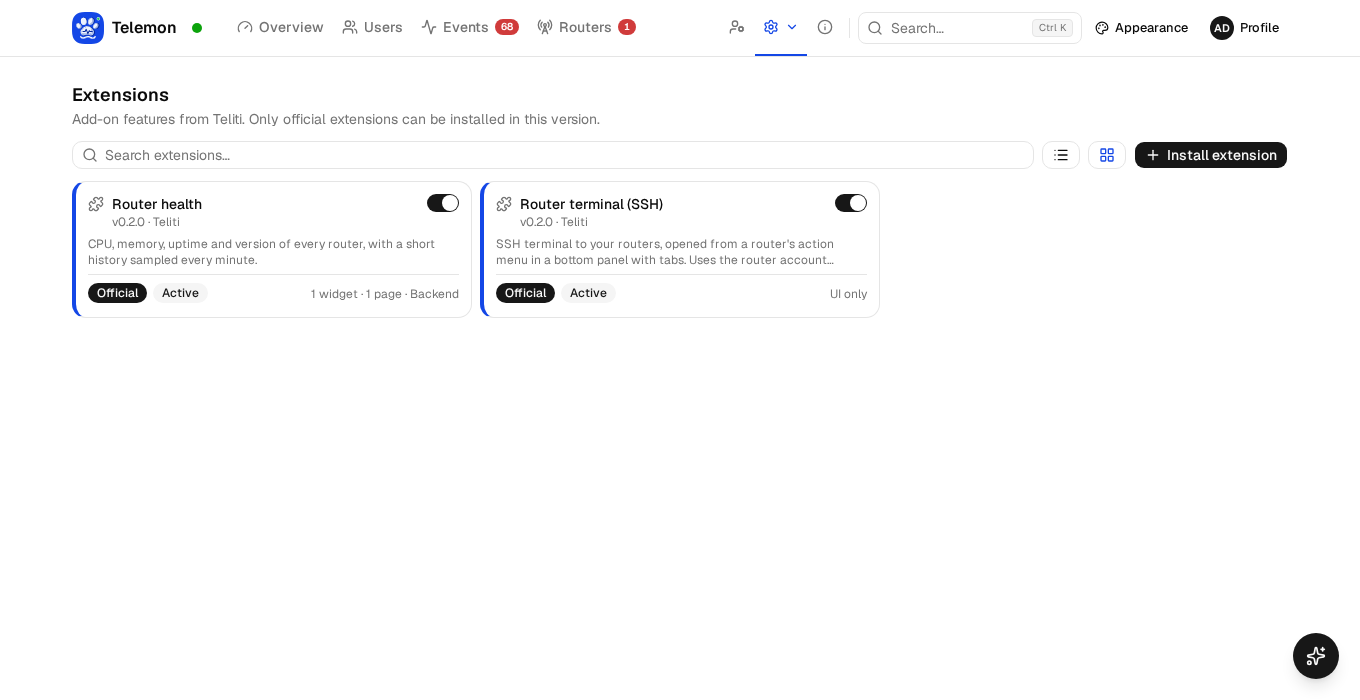
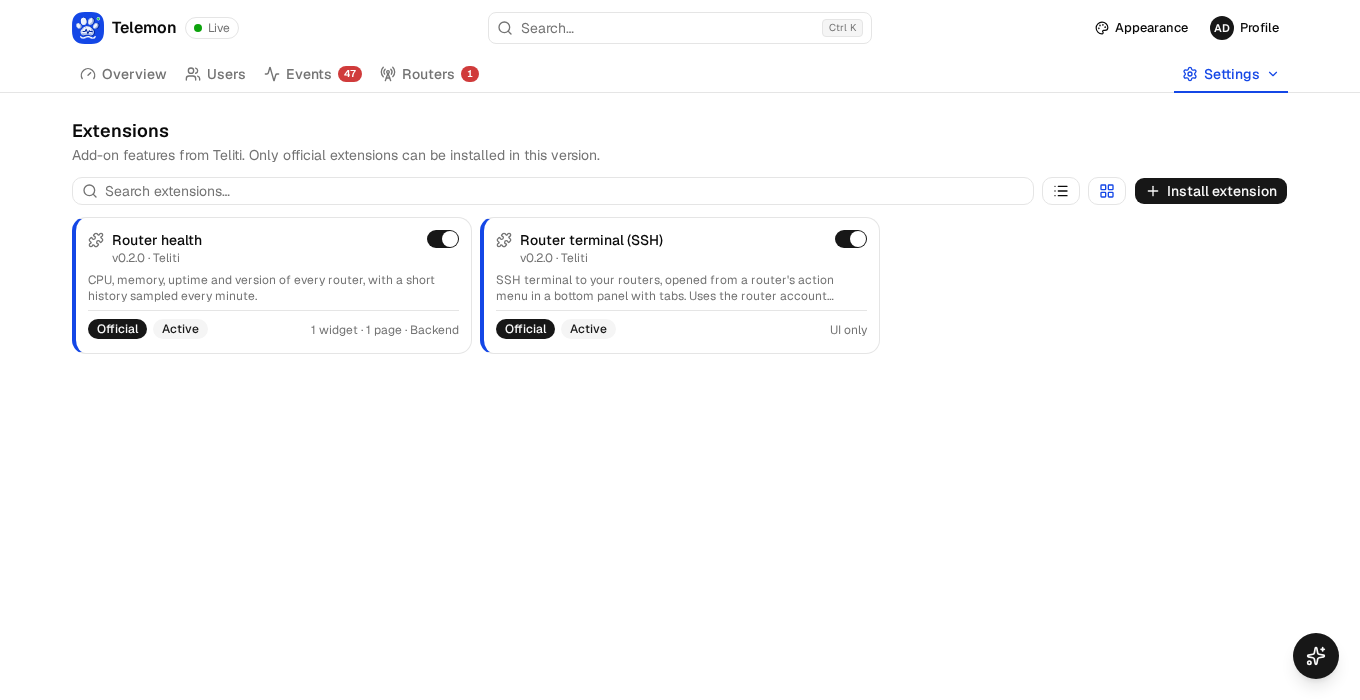
fix(desktop): same compact title bar on Windows, Linux and macOS; refresh README screenshots

diff --git a/src/components/window-controls.tsx b/src/components/window-controls.tsx
@@ -6,9 +6,9 @@ import { useT } from "@/lib/i18n"
 import { cn } from "@/lib/utils"
 import { winClose, winIsMaximized, winMinimize, winStartResize, winToggleMaximize, type ResizeDir } from "@/lib/window"
 
-function Btn({ label, onClick, className, children, compact }: { label: string; onClick: () => void; className?: string; children: React.ReactNode; compact?: boolean }) {
+function Btn({ label, onClick, className, children, compact, flush }: { label: string; onClick: () => void; className?: string; children: React.ReactNode; compact?: boolean; flush?: boolean }) {
   return (
-    <Button type="button" variant="ghost" size="icon" aria-label={label} title={label} onClick={onClick} className={cn(compact && "size-6 md:size-6 [&_svg]:size-3.5", className)}>
+    <Button type="button" variant="ghost" size="icon" aria-label={label} title={label} onClick={onClick} className={cn(compact && !flush && "size-6 md:size-6 [&_svg]:size-3.5", flush && "h-full w-11 rounded-none md:size-auto md:h-full md:w-11 [&_svg]:size-3.5", className)}>
       {children}
     </Button>
   )
@@ -38,8 +38,10 @@ export function WindowControls({ side = "right", compact }: { side?: "left" | "r
     }
   }, [])
 
+  // Gaya Windows ringkas: tombol selebar 44 px setinggi bilah judul, rapat ke tepi kanan.
+  const flush = compact && side === "right"
   const min = (
-    <Btn key="min" compact={compact} label={t("Perkecil jendela")} onClick={winMinimize}>
+    <Btn key="min" compact={compact} flush={flush} label={t("Perkecil jendela")} onClick={winMinimize}>
       <MinusIcon />
     </Btn>
   )
@@ -47,6 +49,7 @@ export function WindowControls({ side = "right", compact }: { side?: "left" | "r
     <Btn
       key="max"
       compact={compact}
+      flush={flush}
       label={maximized ? t("Pulihkan jendela") : t("Perbesar jendela")}
       onClick={() => {
         winToggleMaximize()
@@ -58,13 +61,19 @@ export function WindowControls({ side = "right", compact }: { side?: "left" | "r
     </Btn>
   )
   const close = (
-    <Btn key="close" compact={compact} label={t("Tutup jendela")} onClick={winClose} className="hover:bg-destructive/10 hover:text-destructive">
+    <Btn key="close" compact={compact} flush={flush} label={t("Tutup jendela")} onClick={winClose} className={flush ? "hover:bg-destructive hover:text-white" : "hover:bg-destructive/10 hover:text-destructive"}>
       <XIcon />
     </Btn>
   )
 
   return (
-    <div className={cn("flex shrink-0 items-center gap-0.5", compact ? "py-1" : "py-2", side === "left" ? (compact ? "pr-2 pl-2" : "border-r pr-2 pl-2") : "border-l pr-2 pl-2")} data-window-controls>
+    <div
+      className={cn(
+        "flex shrink-0 items-center",
+        flush ? "self-stretch" : cn("gap-0.5", compact ? "py-1" : "py-2", side === "left" ? (compact ? "pr-2 pl-2" : "border-r pr-2 pl-2") : "border-l pr-2 pl-2")
+      )}
+      data-window-controls
+    >
       {side === "left" ? [close, min, max] : [min, max, close]}
     </div>
   )

diff --git a/src/components/site-header.tsx b/src/components/site-header.tsx
@@ -41,8 +41,8 @@ export function SiteHeader({ title }: { title: string }) {
   // Header menjadi bilah judul (Windows tanpa bilah bawaan, atau macOS Overlay): bisa diseret dan harus tetap terlihat.
   const titlebar = frameless || mac
   React.useEffect(initFrameless, [])
-  // Linux tanpa bilah bawaan: bilah judul dibuat ringkas (setinggi bilah judul bawaan) dengan ikon kecil.
-  const compact = frameless && WINDOW_CONTROLS_SIDE === "left"
+  // Windows, Linux dan macOS: bilah judul sama ringkasnya di semua platform (setinggi bilah judul bawaan), tanpa logo, ikon kecil.
+  const compact = titlebar
 
   const dragProps = titlebar
     ? {
@@ -70,7 +70,7 @@ export function SiteHeader({ title }: { title: string }) {
         )}
       >
         <div className={cn("flex items-stretch", compact ? "h-9" : "h-12 md:h-14")}>
-          {compact && <WindowControls side="left" compact />}
+          {compact && WINDOW_CONTROLS_SIDE === "left" && <WindowControls side="left" compact />}
           {mac && <div aria-hidden className="shrink-0" style={{ width: MAC_TRAFFIC_LIGHTS }} />}
           <div className={cn(PAGE_CONTAINER, "flex h-full min-w-0 items-center gap-2")}>
             <div className="flex min-w-0 flex-1 items-center gap-2">
@@ -118,7 +118,7 @@ export function SiteHeader({ title }: { title: string }) {
             </div>
           </div>
           {mac && <div aria-hidden className="shrink-0" style={{ width: MAC_TRAFFIC_LIGHTS }} />}
-          {frameless && WINDOW_CONTROLS_SIDE === "right" && <WindowControls />}
+          {frameless && WINDOW_CONTROLS_SIDE === "right" && <WindowControls compact />}
           {frameless && NEEDS_RESIZE_HANDLES && <ResizeHandles />}
         </div>
       </div>

diff --git a/src-tauri/src/lib.rs b/src-tauri/src/lib.rs
@@ -76,7 +76,7 @@ pub fn run() {
       // macOS: bilah judul menjadi lapisan transparan (Overlay) tanpa teks judul; header UI yang menjadi bilah judulnya
       // dan tombol lalu lintas bawaan mengambang di kiri atas (lihat `useMacOverlay` di src/lib/window.ts).
       #[cfg(target_os = "macos")]
-      let builder = builder.title_bar_style(tauri::TitleBarStyle::Overlay).hidden_title(true).traffic_light_position(tauri::LogicalPosition::new(18.0, 21.0));
+      let builder = builder.title_bar_style(tauri::TitleBarStyle::Overlay).hidden_title(true).traffic_light_position(tauri::LogicalPosition::new(18.0, 12.0));
       builder.build()?;
       Ok(())
     })

diff --git a/CLAUDE.md b/CLAUDE.md
@@ -72,6 +72,6 @@ Aplikasi desktop **Tauri v2** (Windows dan Linux, tanpa deploy).
 - **UI Extension** (Pengaturan > Extension): daftar `#/pengaturan/extension` (`pages/settings-extensions.tsx`: grid kartu atau list seperti Users, pilihan tersimpan di `telemon.extensions.view`, cari, toggle aktif dengan popup konfirmasi `ToggleExtensionDialog`), tombol **Pasang extension** membuka `InstallChooserDialog` (toko atau unggah berkas lokal; unggah lewat `InstallDialog` lalu pindah ke detail), toko `#/pengaturan/extension/store` (`pages/extension-store.tsx`: jelajah, cari, filter semua/belum terpasang/terpasang/ada pembaruan; klik kartu = popup detail fitur, izin wajib/sensitif, syarat; **Verifikasi dan pasang** wajib mencentang pernyataan), setelah pasang pindah ke detail dengan `replacePath` (Back menuju daftar, bukan toko), dan detail `#/pengaturan/extension/<id>` (`pages/extension-detail.tsx`, di tengah `max-w-3xl`: informasi, kompatibilitas, izin dengan konfirmasi untuk menyalakan yang sensitif, akses peran `AccessPanel`, backend, hapus). Bagian bersama di `components/extensions/parts.tsx`. `GET /api/extensions/store` kini memuat widget, halaman, izin, aksi, backend, tugas, dan sesi per entri untuk popup detail. Server demo: `TELEMON_DEMO_STORE_DIR` (katalog dan paket dari folder lokal) untuk mencoba toko tanpa jaringan.
 - **Cache UI**: `security_headers` memberi `Cache-Control: no-cache` pada respons HTML (index.html dan rute SPA) supaya browser tidak menahan UI lama setelah pembaruan; aset bernama hash tetap boleh di-cache. Halaman Extension: toolbar selebar halaman (cari melebar, tampilan dan Pasang di ujung kanan), grid 1/2/3 kolom (`min-[420px]:2`, `lg:3`).
 - **Slot UI untuk extension** (ADR 0028): extension muncul di konteksnya, bukan di menu utama. (1) **Aksi router**: `contributes.routerActions` (`id`, `title`, `action`) + `sdk.registerRouterAction({ id, run(router), disabled?(router) })`; tampil di menu aksi tiap router di halaman Router (`pages/routers.tsx`, hanya bila peran punya aksinya; `disabled` memberi alasan sebagai tooltip). (2) **Panel bawah bertab ala VS Code**: `contributes.panels` + `sdk.registerPanel({ id, Component({ params, close }) })` dan `sdk.panel.open(panelId, { key, title, params })`; `components/extensions/bottom-panel.tsx` (di App, tetap di bawah, tinggi bisa ditarik dan diingat di `telemon.panel.height`, besarkan, lipat, tutup, Ctrl+` melipat; tab tetap hidup saat pindah tab; penahan ruang supaya isi halaman tidak tertutup; di HP berada di atas menu bawah) dengan status di `lib/extensions/panel.ts`. Tab milik extension yang dimatikan atau dihapus ditutup saat extension dimuat ulang (`pruneTabs`). Registri: `lib/extensions/registry.ts` (`routerActionList`, `findPanel`). Menu "Extension" di menu atas **dihapus**; halaman extension (`contributes.pages`, `#/ext/...`) tetap ada untuk dasbor dan dibuka dari detail extension. Detail extension memberi peringatan "Belum bisa dipakai" bila sesi `router-ssh` ada tetapi izin `feature.router-ssh` mati.
-- **Jendela desktop** (`src-tauri/src/lib.rs`): ukuran minimal 960×620 dan maksimal 2560×1600 piksel logis (`MIN_WINDOW`, `MAX_WINDOW`; tampilan HP hanya di browser). **macOS**: bilah judul bawaan menjadi Overlay tanpa teks (`TitleBarStyle::Overlay`, `hidden_title`, `traffic_light_position(18, 21)`), jadi tombol lalu lintas bawaan mengambang di kiri atas dan header UI menjadi bilah judul (`useMacOverlay` di `src/lib/window.ts`: deteksi UA Mac + IPC Tauri; `MAC_TRAFFIC_LIGHTS` = 84 px ruang di kiri dan kanan header, bisa diseret, klik ganda memperbesar; tanpa `WindowControls`). Windows tetap tanpa bilah bawaan lewat `set_decorations(false)` dan tombol buatan sendiri; Linux memakai bilah bawaan. **Bagian Rust macOS tidak bisa dibangun di olympus (tanpa WebKitGTK); baru teruji saat CI rilis dan di Mac nyata.**
+- **Jendela desktop** (`src-tauri/src/lib.rs`): ukuran minimal 960×620 dan maksimal 2560×1600 piksel logis (`MIN_WINDOW`, `MAX_WINDOW`; tampilan HP hanya di browser). **macOS**: bilah judul bawaan menjadi Overlay tanpa teks (`TitleBarStyle::Overlay`, `hidden_title`, `traffic_light_position(18, 12)`), jadi tombol lalu lintas bawaan mengambang di kiri atas dan header UI menjadi bilah judul (`useMacOverlay` di `src/lib/window.ts`: deteksi UA Mac + IPC Tauri; `MAC_TRAFFIC_LIGHTS` = 84 px ruang di kiri dan kanan header, bisa diseret, klik ganda memperbesar; tanpa `WindowControls`). Windows dan Linux juga tanpa bilah bawaan lewat `set_decorations(false)` dan tombol buatan sendiri (Windows di kanan, selebar 44 px setinggi bilah; Linux di kiri `[x][_][□]` dengan tepi ubah ukuran dari UI). **Bilah judul sama di ketiga platform**: 36 px, tanpa logo, ikon kecil, tanpa garis pemisah (`compact` di `site-header.tsx`). **Bagian Rust macOS tidak bisa dibangun di olympus (tanpa WebKitGTK); baru teruji saat CI rilis dan di Mac nyata.**
 - **Pencarian (palet Ctrl/Cmd+K)** (`components/command-palette.tsx`, `lib/search.ts`, `lib/search-prefs.ts`, `lib/command-palette.ts`): tombol Cari di toolbar dan pintasan Ctrl/Cmd+K membuka palet ala Spotlight (panah atas/bawah dan Ctrl+N/P memilih, Enter membuka, Esc menutup, mouse juga bisa). Sumber: **Menu** (bawaan nyala; menu yang boleh dilihat akun, subhalaman Pengaturan, Akun saya; cocok dengan nama Indonesia dan terjemahannya), **Router**, **User** (username, IP, MAC, profil, nama pelanggan, router), dan **Lainnya** (Profil PPP dan halaman extension); selain Menu **mati bawaan** dan dinyalakan lewat chip di bawah palet atau di Appearance; pilihan disimpan per browser/aplikasi di `telemon.search.sources` (bukan pengaturan server) dan sumber yang tak boleh diakses peran dinonaktifkan. Peringkat `rank()`: persis > awal kata > mengandung > urutan huruf (hanya judul). Membuka user memakai `openUserFn` dari `App.tsx`.
-- **Header dan menu** (`components/site-header.tsx`): dua baris. Baris atas = header/bilah judul: logo + Telemon di kiri, Appearance (dan Profile di web) di kanan. **Web**: lencana Live lama di kiri dan kotak Cari di tengah header (HP: ikon Cari di kanan). **Aplikasi desktop**: titik Live yang bisa diklik (`components/live-indicator.tsx`, popup status), Appearance hanya ikon, **tanpa kotak Cari** (Ctrl/Cmd+K tetap membuka palet); di Windows dan Linux (tanpa bilah bawaan) dan macOS (Overlay) baris ini menjadi bilah judul (Linux: 36 px, tombol jendela di kiri, tanpa logo, tanpa garis pemisah, tepi ubah ukuran dari UI). Baris kedua (md ke atas) = menu utama Overview, Users, Events, Routers, lalu **satu dropdown "Pengaturan" rata kanan** (`SettingsMenu`) berisi grup Pengaturan (Umum, AI, Extension), grup Kelola (Admin, Berbagi; lencana LAN/Publik) dan Tentang (versi); entri hanya muncul bila akun boleh melihatnya, halaman aktif ditandai. Menu bawah HP tidak berubah (`NAV` di `nav-items.ts` masih memuat Berbagi/Admin/Pengaturan/Tentang untuk HP).
+- **Header dan menu** (`components/site-header.tsx`): dua baris. Baris atas = header/bilah judul: logo + Telemon di kiri, Appearance (dan Profile di web) di kanan. **Web**: lencana Live lama di kiri dan kotak Cari di tengah header (HP: ikon Cari di kanan). **Aplikasi desktop**: titik Live yang bisa diklik (`components/live-indicator.tsx`, popup status), Appearance hanya ikon, **tanpa kotak Cari** (Ctrl/Cmd+K tetap membuka palet); di Windows dan Linux (tanpa bilah bawaan) dan macOS (Overlay) baris ini menjadi bilah judul (sama di Windows, Linux, macOS: 36 px, tanpa logo, tanpa garis pemisah; Linux dengan tombol jendela di kiri dan tepi ubah ukuran dari UI). Baris kedua (md ke atas) = menu utama Overview, Users, Events, Routers, lalu **satu dropdown "Pengaturan" rata kanan** (`SettingsMenu`) berisi grup Pengaturan (Umum, AI, Extension), grup Kelola (Admin, Berbagi; lencana LAN/Publik) dan Tentang (versi); entri hanya muncul bila akun boleh melihatnya, halaman aktif ditandai. Menu bawah HP tidak berubah (`NAV` di `nav-items.ts` masih memuat Berbagi/Admin/Pengaturan/Tentang untuk HP).

diff --git a/README.md b/README.md
@@ -8,7 +8,7 @@ Telemon reads each router over the RouterOS API and shows who is connected, who 
 
 ![Overview](docs/screenshots/overview.png)
 
-> Screenshots come from the bundled demo server with simulated routers and made-up users. No real data.
+> Screenshots come from the bundled demo server with simulated routers and made-up users. No real data. The desktop-app image is the demo in desktop mode with simulated window buttons, not a capture of the packaged app.
 
 ## Status
 
@@ -29,7 +29,7 @@ Pre-release (`v0.1.0-rc.x`). The core, server and UI are tested against a simula
 - **AI assistant** (read-only, off until you add a provider): ask questions about your users and events in plain language. It uses OpenAI-compatible APIs (OpenAI, DeepSeek, Gemini, 9Router) or Anthropic, only reads data the asker's role may see, masks IPs and MACs by default, never sees passwords, and has a monthly budget with a usage dashboard. Besides lookups it can compute **event statistics** (per hour or day, most auth failures and disconnects), a **bandwidth summary** (now, average, peak, per user, change versus the previous period, per router) and **router health** (downtime and availability). It can also **propose Overview widget changes** (add, remove, change a widget's router, interface or range): a proposal appears as a card and nothing changes until you press Apply, which uses your own permission. Customer data is sent to the provider you choose.
 - **Extensions (official only for now).** Signed `.tmx` packages (Ed25519) add features to the app: Overview widgets, pages, router actions, bottom-panel tabs, scheduled workers, API routes and a sandboxed WASM backend, with their own database tables through declarative migrations. Install from the built-in store (a signed catalogue), or from a file or link; dependencies and Telemon version ranges are checked before install. Every permission has a toggle the core enforces, each extension has its own Access page per role (none, view, edit plus declared actions), and changes are audited. The first extensions are **Router health** and **Router terminal (SSH)**; the terminal opens from a router's action menu in a bottom panel, pins the router's SSH host key and needs the Router *Edit* permission. On by default in the desktop app; off on a server until `TELEMON_EXTENSIONS=1`. Extension packages live in [`telemon-extensions`](https://github.com/teliti-dev/telemon-extensions); this repo holds the host and the SDK contract (`src/lib/extensions/sdk.ts`). See ADR 0028 and 0029.
 - **Command palette.** Press Ctrl/Cmd+K (or the Search button) to jump anywhere, Spotlight style: arrow keys move, Enter opens, Esc closes. Menu is searched by default; Routers, Users and Other (PPP profiles, extension pages) are switches under the palette or in Appearance, remembered per browser or app, and only offered when your role may see them.
-- **Compact header and menu.** The header holds the logo and Appearance (plus your account in a browser) with the compact menu underneath: Overview, Users, Events, Routers and one **Settings** dropdown that groups Settings (General, AI, Extensions), Manage (Admin, Sharing) and About. In a browser the Search box sits in the middle of the header; in the desktop app press Ctrl/Cmd+K, and a green Live dot you can click shows status (routers online, active users, last event, sharing, version). On Windows, Linux and macOS the header doubles as the title bar; the desktop window has a minimum and maximum size. Phones keep the bottom menu.
+- **Compact header and menu.** The header holds the logo and Appearance (plus your account in a browser) with the compact menu underneath: Overview, Users, Events, Routers and one **Settings** dropdown that groups Settings (General, AI, Extensions), Manage (Admin, Sharing) and About. In a browser the Search box sits in the middle of the header; in the desktop app press Ctrl/Cmd+K, and a green Live dot you can click shows status (routers online, active users, last event, sharing, version). On Windows, Linux and macOS the header doubles as one compact title bar (same look on all three: 36 px, no logo; window buttons on the right on Windows, on the left on Linux, the system traffic lights on macOS); the desktop window has a minimum and maximum size. Phones keep the bottom menu.
 - **Bilingual UI** (English and Indonesian), light and dark themes, responsive down to phone width.
 
 | Users | User detail |
@@ -43,6 +43,10 @@ Pre-release (`v0.1.0-rc.x`). The core, server and UI are tested against a simula
 | Command palette (Ctrl+K) | Extensions |
 |---|---|
 | ![Command palette](docs/screenshots/command-palette.png) | ![Extensions](docs/screenshots/extensions.png) |
+
+| Settings menu | Desktop app (compact title bar) |
+|---|---|
+| ![Settings menu](docs/screenshots/settings-menu.png) | ![Desktop app](docs/screenshots/desktop-app.png) |
 
 **AI dashboard** (Settings): providers, tokens per day, balance and monthly budget.
 
